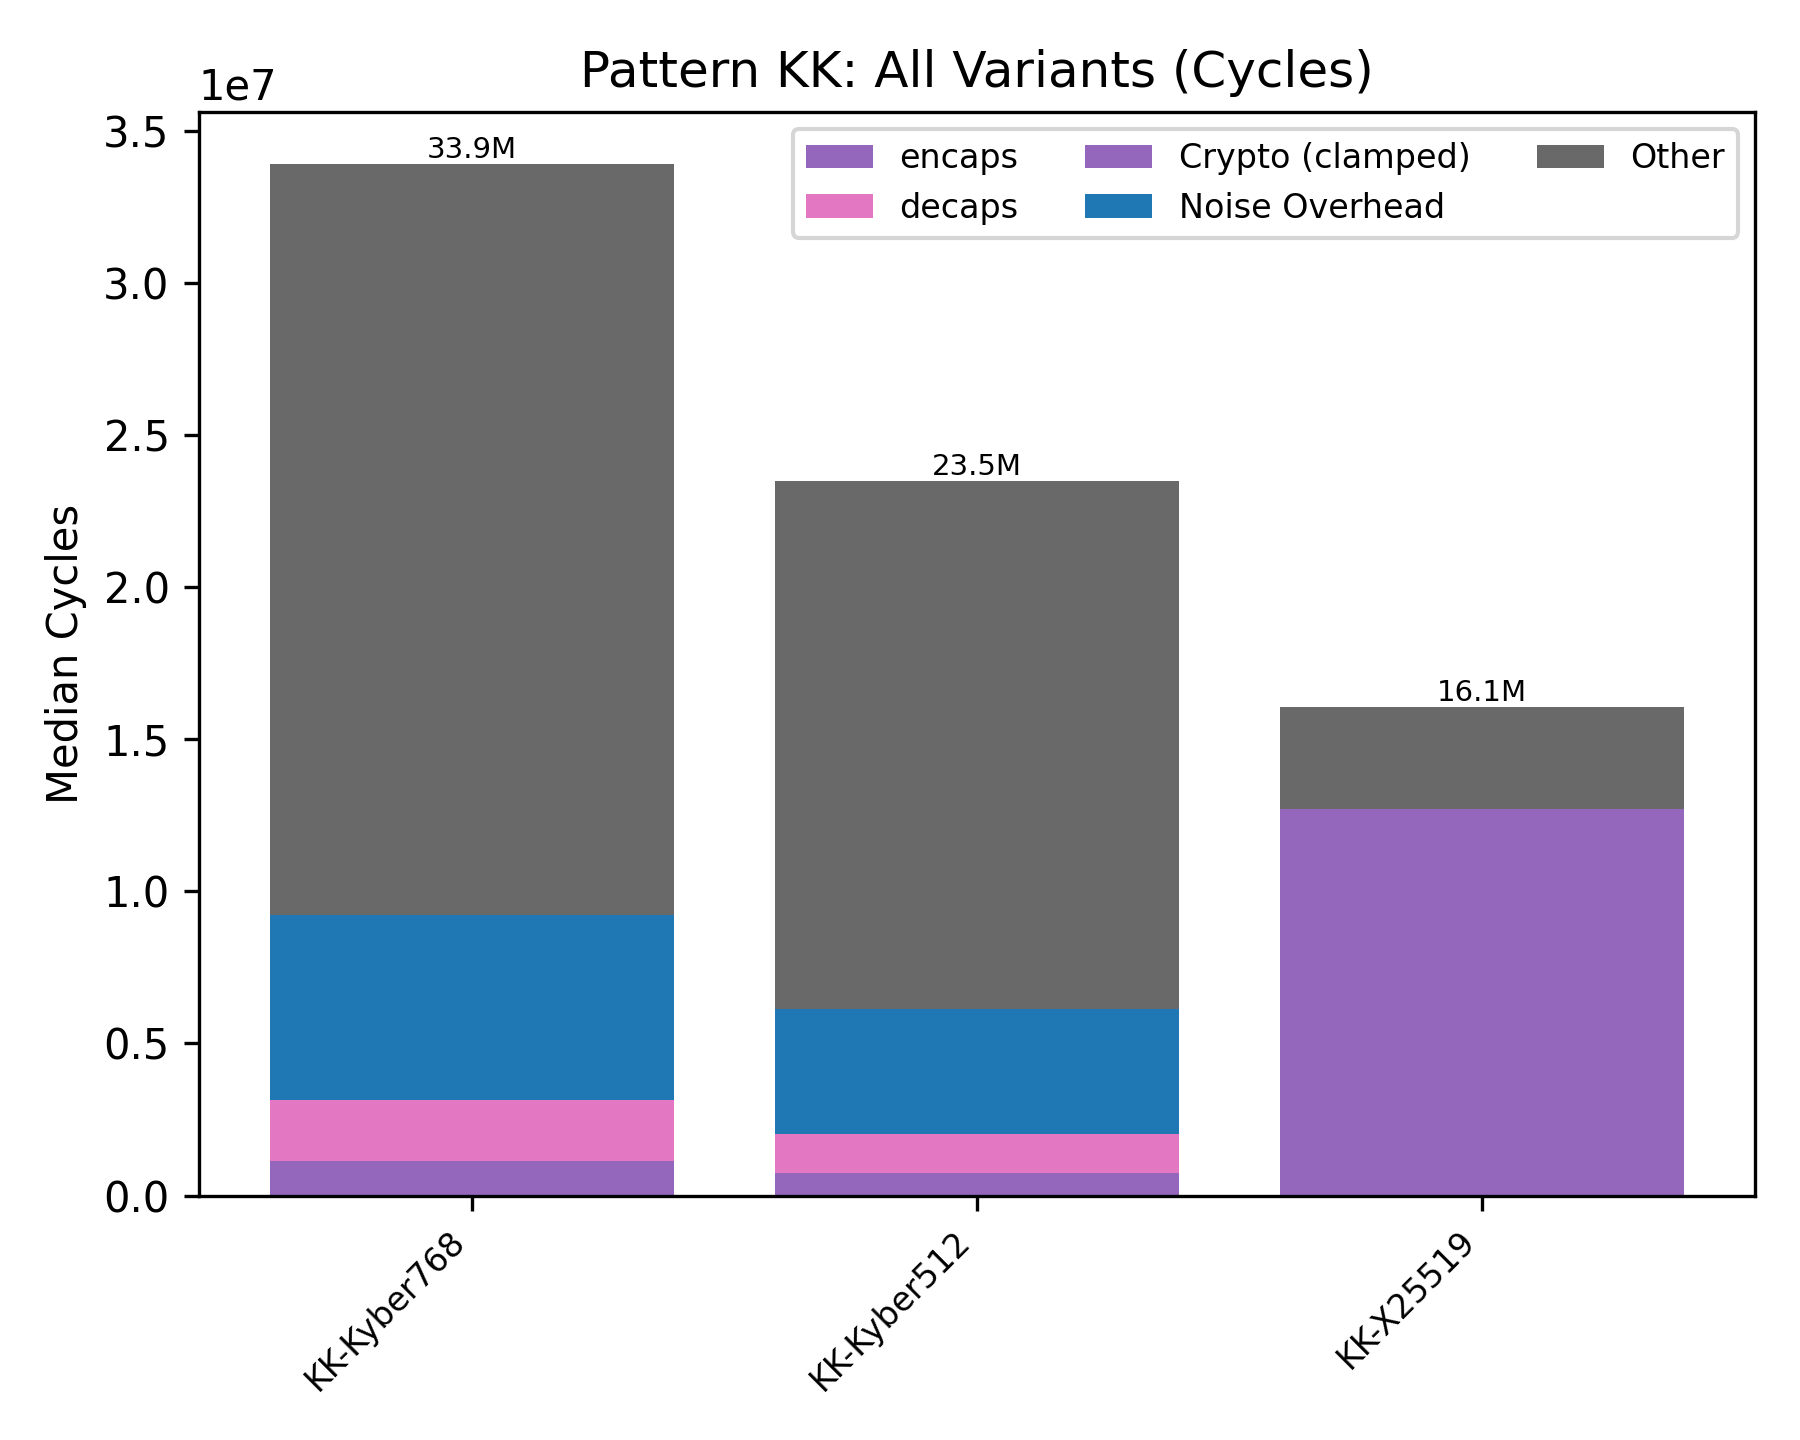
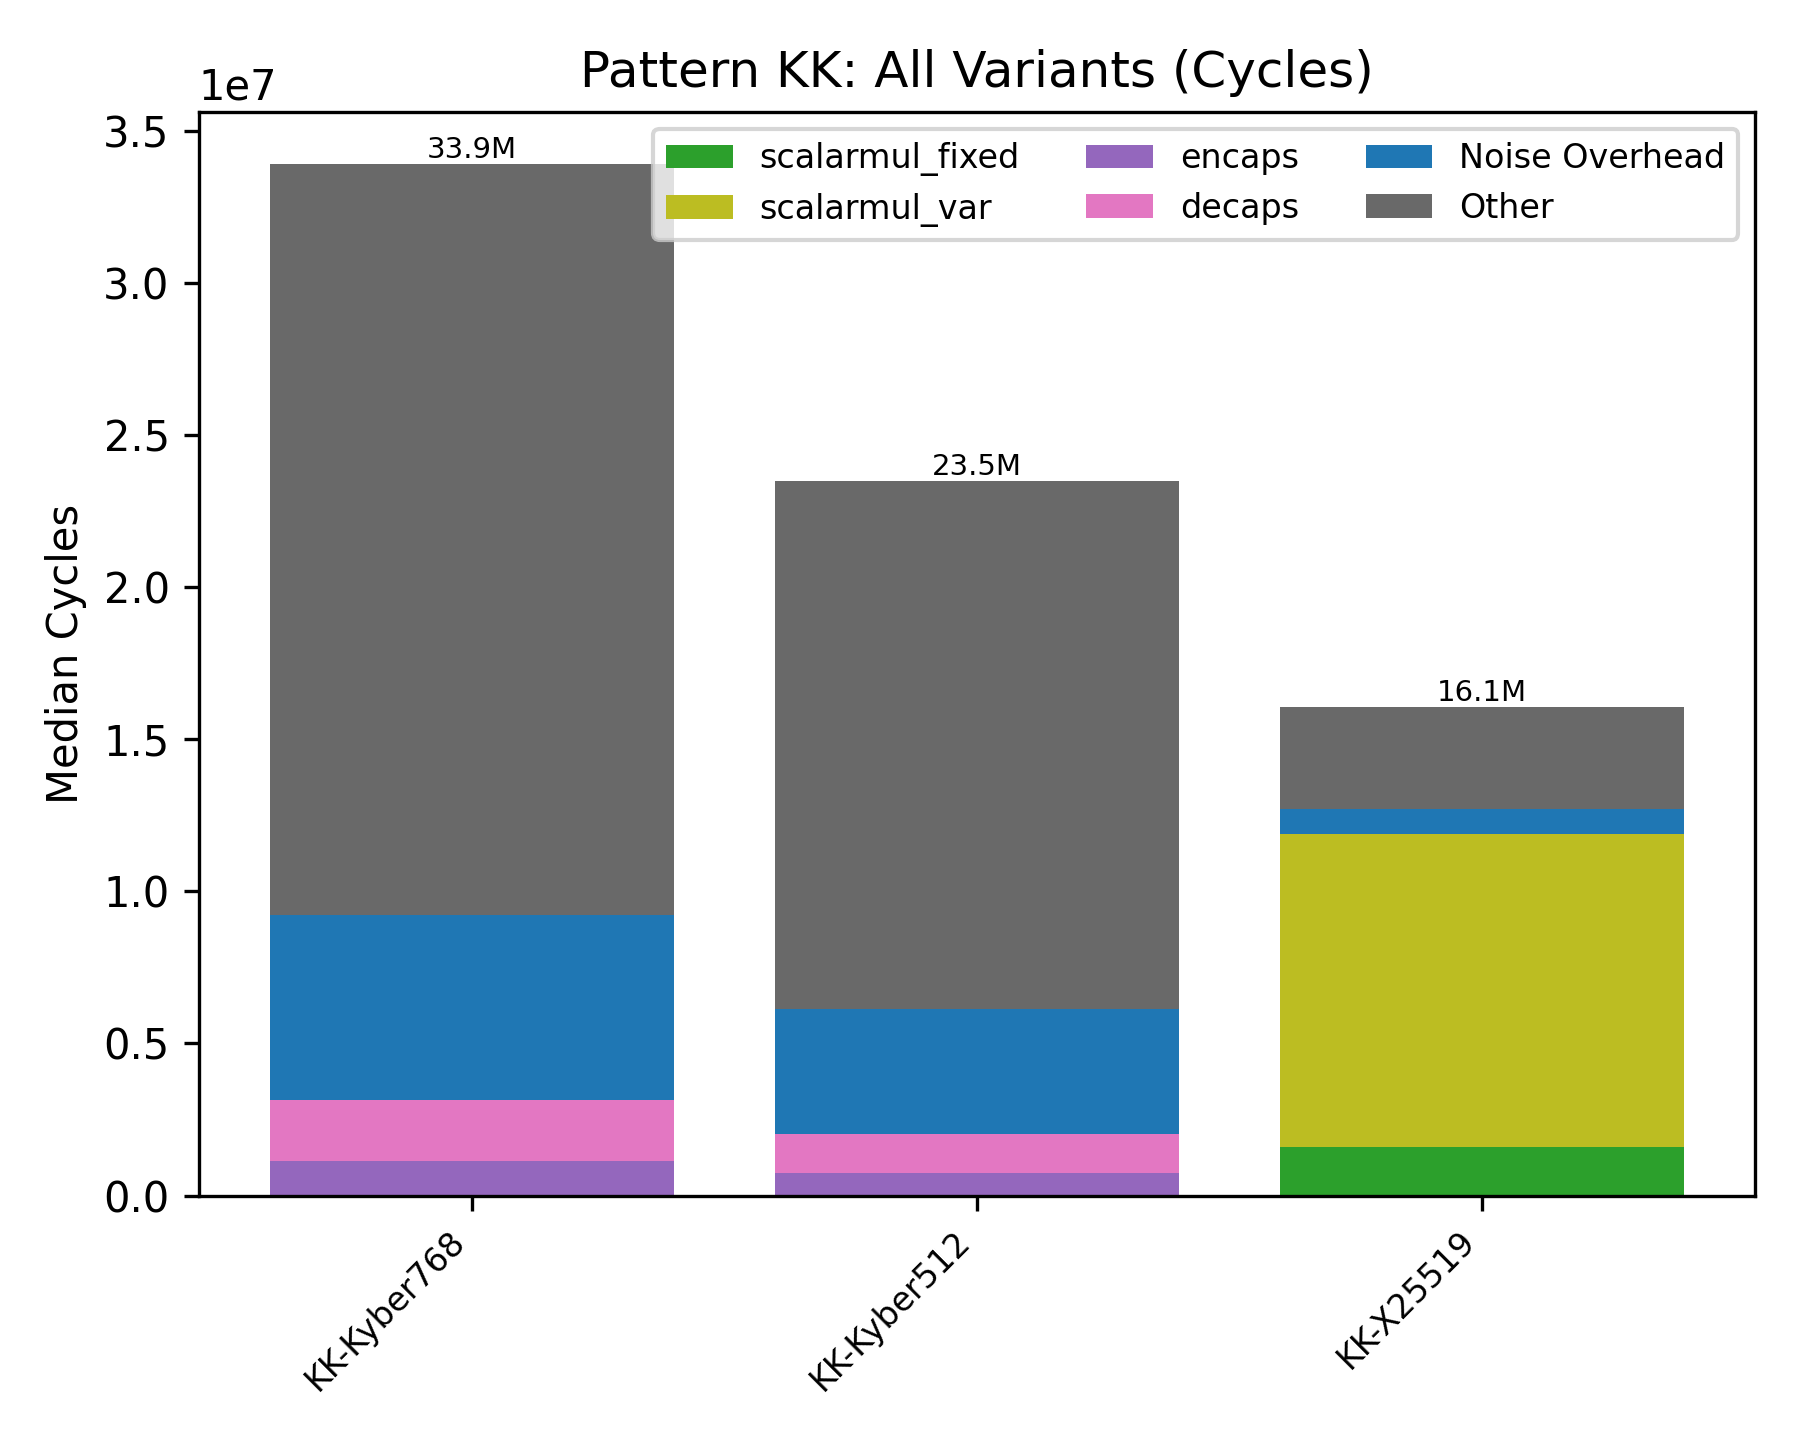
feat(fix): Bug fix in the graph script

Changed region(s): [[0.6844, 0.5625, 0.9333, 0.8438], [0.5911, 0.0938, 0.9644, 0.1562], [0.3422, 0.0938, 0.56, 0.1875]]

diff --git a/graph.py b/graph.py
@@ -84,14 +84,14 @@ PRIMITIVE_TOTALS = {
         "NN": {"scalarmul_fixed": 1, "scalarmul_var": 1},
         "NK": {"scalarmul_fixed": 1, "scalarmul_var": 2},
         "NX": {"scalarmul_fixed": 1, "scalarmul_var": 2},
-        "XN": {"scalarmul_fixed": 2, "scalarmul_var": 2},
-        "XK": {"scalarmul_fixed": 2, "scalarmul_var": 3},
-        "XX": {"scalarmul_fixed": 2, "scalarmul_var": 3},
-        "KN": {"scalarmul_fixed": 2, "scalarmul_var": 2},
-        "KK": {"scalarmul_fixed": 2, "scalarmul_var": 4},
-        "KX": {"scalarmul_fixed": 2, "scalarmul_var": 3},
-        "IN": {"scalarmul_fixed": 2, "scalarmul_var": 2},
-        "IK": {"scalarmul_fixed": 2, "scalarmul_var": 4},
+        "XN": {"scalarmul_fixed": 1, "scalarmul_var": 2},
+        "XK": {"scalarmul_fixed": 1, "scalarmul_var": 3},
+        "XX": {"scalarmul_fixed": 1, "scalarmul_var": 3},
+        "KN": {"scalarmul_fixed": 1, "scalarmul_var": 2},
+        "KK": {"scalarmul_fixed": 1, "scalarmul_var": 4},
+        "KX": {"scalarmul_fixed": 1, "scalarmul_var": 3},
+        "IN": {"scalarmul_fixed": 1, "scalarmul_var": 2},
+        "IK": {"scalarmul_fixed": 1, "scalarmul_var": 4},
     },
     "kyber512": {
         "NN": {"encaps": 0, "decaps": 1},
